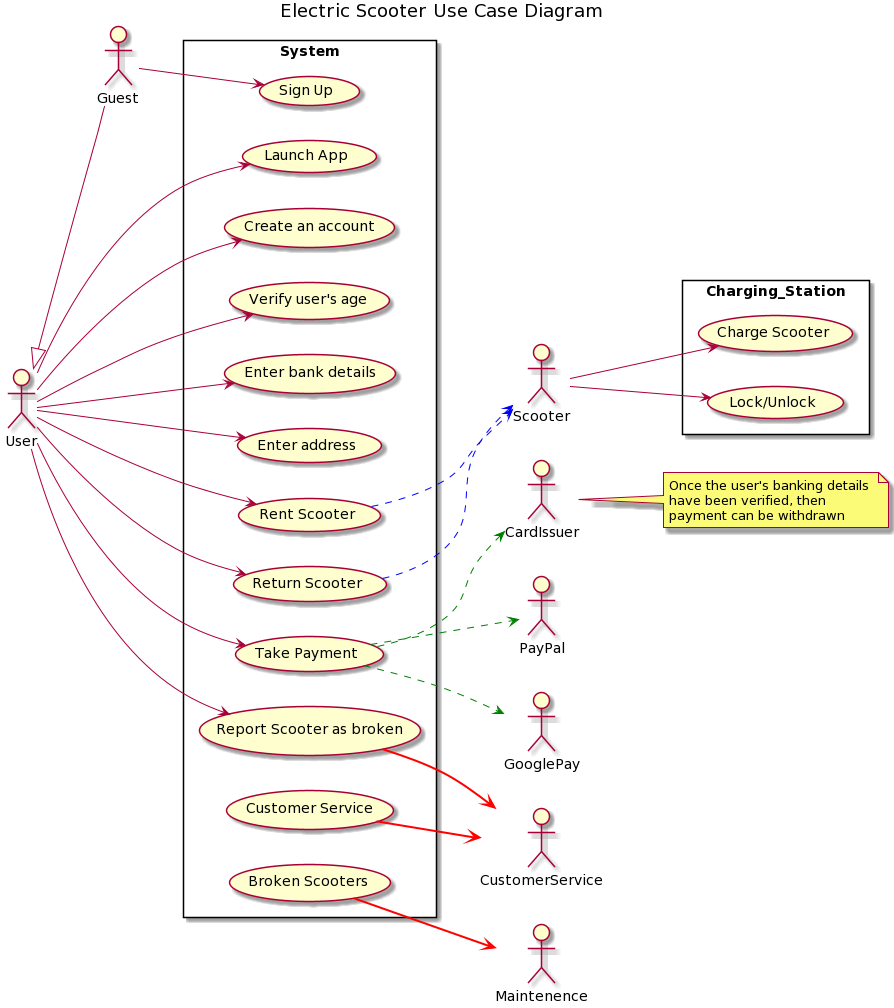
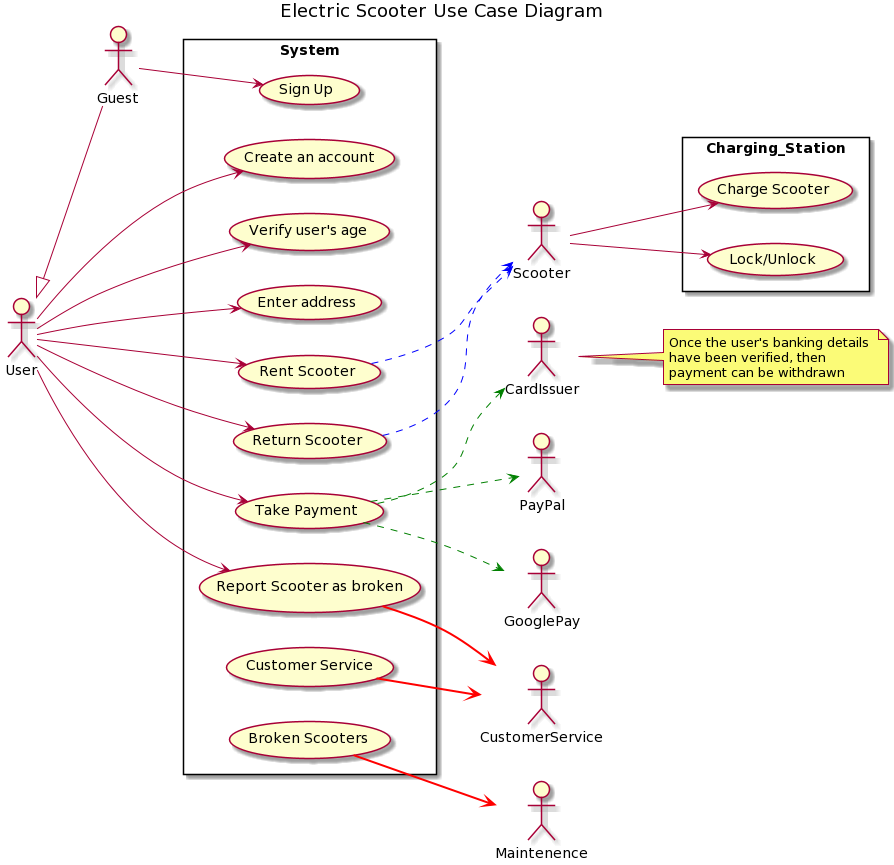
amended use case and class diagrams per review notes, working on classes next

diff --git a/Classes/User.js b/Classes/User.js
@@ -1,5 +1,5 @@
 const Guest = require('./Guest');
-const Scooter = require('./Scooter');
+const scooter = require('./Scooter');
 const Payment = require('./Payment');
 const Bank = require('./Bank');
 const Google = require('./GooglePay');
@@ -12,40 +12,39 @@ const prompt = require('prompt-sync')({ sigint: true });
 class User extends Guest {
 
     unique_id;
-    register;
+    
 
     constructor(name, age, address, email, unique_id) {
         super(name, age, address, email)
         this.unique_id = Math.random();
-        this.register = [];
     }
 
 
-    hireScooter(Scooter) { // execute a function that start counting seconds until they return scooter || seaarch js apply
+    hireScooter(scooter) { // execute a function that start counting seconds until they return scooter || seaarch js apply
         // pass in scooter 
-        Scooter;
+       
         // return scooter.set.isavailable
-        return s.isAvailable();
+        return scooter.isAvailable();
 
        
     }
 
-    returnScooter(Scooter) { //pass in take payment  //TOFIX
+    returnScooter(scooter) { //pass in take payment  //TOFIX
         // pass in scooter
         // get timestamp for ending session
 
         let d = new Date();
         d.getDate;
 
-        Scooter;
+      
         // returns GooglePay method take paymewnt
 
         console.log("Session has ended at " + d);
         return st.chargeScooter().then(() => g.verifyBankDetails().then(() => g.takePayment())); //chaining promises :D not sure how i did this but it works
     }
 
-    deleteAccount(name) {
-        this.register.pop(name); //removes persons account by name
+    deleteAccount() { //if else
+        Guest.register.pop(); //removes persons account by name
         console.log(`${this.name} has been removed`);
         return this.register; //returns the current stack
     }
@@ -72,7 +71,7 @@ const c = new User("ee", 22, "64 zoo lane", "a@A.com", 111)
 const d = new User("rr", 22, "64 zoo lane", "a@A.com", 111)
 // // A.submitFeedback()
 
-const s = new Scooter(1, "electric", 100, 32); //if a scooter object is created with less than 100% then isAvailable() method will console.log error
+const s = new scooter(1, "electric", 100, 32); //if a scooter object is created with less than 100% then isAvailable() method will console.log error
 // // A.hireScooter()
 
 const g = new GooglePay("Scooter Hire", "GooglePay");

diff --git a/Classes/Guest.js b/Classes/Guest.js
@@ -5,6 +5,7 @@ class Guest {
     age;
     address;
     email;
+    // static register[]
 
     constructor(name, age, address, email) {
         this.name = name;
@@ -16,23 +17,19 @@ class Guest {
 
     verifyAge() {  //verify age before proceeding to finishing signUp
         if (this.age < 18) {
-            // console.log(`Sorry ${this.name}, you are too young to use this service.`); //change to boolean
-            return this.age=false;
+            return false; // console.log(`Sorry ${this.name}, you are too young to use this service.`); //change to boolean
         }
         else {
-            return this.signUp(this.name); //if of age, user will be signed up via signUp method
+            return true; 
         }
     }
 
-    signUp(name) {
-        this.register.push(name);
+    signUp() { //dont pass anything
+        this.register.push();
+        // this.isRegistered=true;
+        // Guest.register.push(this);
         //  console.log(`${this.name} has registered successfully. you can now start using the app`)     
     }
-
-
-    // viewGuests() {
-    //     console.log(this.register);
-    // }
 }
 
 module.exports = Guest;
